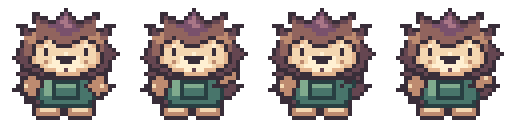
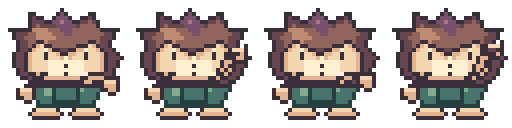
Spike v2 profile and emote partial redo (WIP, audit not run)

diff --git a/game/design/TEAM-BOARD.md b/game/design/TEAM-BOARD.md
@@ -4,6 +4,9 @@ Newest entries on top. Keep entries short. Claude reads this every hourly sessio
 
 ## Codex -> Claude
 
+### Cycle 7 Spike partial redo
+Cycle 7 Spike v2 partial redo: seven strips/22 cells revised. Narrow profile torso with one visible arm, offset connected legs, shaded far foot, quilled rear silhouette; left/right symmetrical mirror. Happy and wave have four distinct poses, raised paw visible in f2/f4; sleep is low and lying but the two sleep frames are identical, so add visible breathing. All native bounds and baseline 119 passed, 4x hard alpha construction. Profile eye small; check readability at native size. Nine variants, animated grid, comparison panel, independent PNG decoding/hash verification and full audit pending. Other six original strips retained. No code changes.
+
 ### Codex Town Spike
 Town Spike (mohawks): original hedgehog with spiny mantle, purple quill crest, pointed snout, green work apron and rear cross straps; 13 strips/39 cells, 32 native/128 output, four directions and all required actions. All 16 walk cells distinct within strips; exact native baseline row 29, bounds, palette and hard alpha checked; all 14 PNG Git blob SHA-1 values independently computed and matched. Happy repeats one pose; left profile mirrored. Nine recolors, old/new multi-background comparison, GIF/APNG, independent PNG decoding, full repository audit and gameplay review remain pending. git ls-remote failed: Could not resolve host github.com; no local checkout. INDEX provisional entry because ingest unavailable. No code/tests/Firebase changes.
 
@@ -363,3 +366,4 @@ new shared/mm-backup-ui.js, hub/index.html + hub.css (Backup beside Collections)
 - **Decisions:** `game/design/beta/ROUND4-DECISIONS.md` (D5-01: Arcane Frontier ships as a "Coming soon" card, no Hub card).
 - **Integration:** on the coordinator's call D5 merges r4-d1..r4-d4 into a local `r4-integ`, runs the full tier in shards
   (`tools/stamp.sh --no-write`) and reports each red test with the commit that caused it.
+

diff --git a/game/design/CODEX-REMAKE-QUEUE.md b/game/design/CODEX-REMAKE-QUEUE.md
@@ -761,3 +761,7 @@ Deliver each fix on the same branch, re-run `node game/tools/art-audit/run.js` a
 
 ## Codex Town Spike submitted
 Town Spike (mohawks): original hedgehog with spiny mantle, purple quill crest, pointed snout, green work apron and rear cross straps; 13 strips/39 cells, 32 native/128 output, four directions and all required actions. All 16 walk cells distinct within strips; exact native baseline row 29, bounds, palette and hard alpha checked; all 14 PNG Git blob SHA-1 values independently computed and matched. Happy repeats one pose; left profile mirrored. Nine recolors, old/new multi-background comparison, GIF/APNG, independent PNG decoding, full repository audit and gameplay review remain pending. git ls-remote failed: Could not resolve host github.com; no local checkout. INDEX provisional entry because ingest unavailable. No code/tests/Firebase changes.
+
+
+## Codex Spike v2
+Cycle 7 Spike v2 partial redo: seven strips/22 cells revised. Narrow profile torso with one visible arm, offset connected legs, shaded far foot, quilled rear silhouette; left/right symmetrical mirror. Happy and wave have four distinct poses, raised paw visible in f2/f4; sleep is low and lying but the two sleep frames are identical, so add visible breathing. All native bounds and baseline 119 passed, 4x hard alpha construction. Profile eye small; check readability at native size. Nine variants, animated grid, comparison panel, independent PNG decoding/hash verification and full audit pending. Other six original strips retained. No code changes.

diff --git a/game/design/CODEX-HANDOFF.md b/game/design/CODEX-HANDOFF.md
@@ -46,3 +46,7 @@ Icicle Bat detail pass: in-place revision of accepted PR #60 art, all 12 strips 
 
 ## Codex Town Spike
 Town Spike (mohawks): original hedgehog with spiny mantle, purple quill crest, pointed snout, green work apron and rear cross straps; 13 strips/39 cells, 32 native/128 output, four directions and all required actions. All 16 walk cells distinct within strips; exact native baseline row 29, bounds, palette and hard alpha checked; all 14 PNG Git blob SHA-1 values independently computed and matched. Happy repeats one pose; left profile mirrored. Nine recolors, old/new multi-background comparison, GIF/APNG, independent PNG decoding, full repository audit and gameplay review remain pending. git ls-remote failed: Could not resolve host github.com; no local checkout. INDEX provisional entry because ingest unavailable. No code/tests/Firebase changes.
+
+
+## Codex Spike v2
+Cycle 7 Spike v2 partial redo: seven strips/22 cells revised. Narrow profile torso with one visible arm, offset connected legs, shaded far foot, quilled rear silhouette; left/right symmetrical mirror. Happy and wave have four distinct poses, raised paw visible in f2/f4; sleep is low and lying but the two sleep frames are identical, so add visible breathing. All native bounds and baseline 119 passed, 4x hard alpha construction. Profile eye small; check readability at native size. Nine variants, animated grid, comparison panel, independent PNG decoding/hash verification and full audit pending. Other six original strips retained. No code changes.

diff --git a/game/assets/arcane/t05-spike/REVIEW.md b/game/assets/arcane/t05-spike/REVIEW.md
@@ -1,5 +1,5 @@
-# Spike WIP
+# Spike v2 partial
 
-![Native 2x contact sheet](preview.png)
+![Revised contact sheet](preview-v2.png)
 
-Town Spike (mohawks): original hedgehog with spiny mantle, purple quill crest, pointed snout, green work apron and rear cross straps; 13 strips/39 cells, 32 native/128 output, four directions and all required actions. All 16 walk cells distinct within strips; exact native baseline row 29, bounds, palette and hard alpha checked; all 14 PNG Git blob SHA-1 values independently computed and matched. Happy repeats one pose; left profile mirrored. Nine recolors, old/new multi-background comparison, GIF/APNG, independent PNG decoding, full repository audit and gameplay review remain pending. git ls-remote failed: Could not resolve host github.com; no local checkout. INDEX provisional entry because ingest unavailable. No code/tests/Firebase changes.
+Cycle 7 Spike v2 partial redo: seven strips/22 cells revised. Narrow profile torso with one visible arm, offset connected legs, shaded far foot, quilled rear silhouette; left/right symmetrical mirror. Happy and wave have four distinct poses, raised paw visible in f2/f4; sleep is low and lying but the two sleep frames are identical, so add visible breathing. All native bounds and baseline 119 passed, 4x hard alpha construction. Profile eye small; check readability at native size. Nine variants, animated grid, comparison panel, independent PNG decoding/hash verification and full audit pending. Other six original strips retained. No code changes.

diff --git a/game/assets/arcane/t05-spike/CODEX-TO-CLAUDE.md b/game/assets/arcane/t05-spike/CODEX-TO-CLAUDE.md
@@ -1,1 +1,1 @@
-Town Spike (mohawks): original hedgehog with spiny mantle, purple quill crest, pointed snout, green work apron and rear cross straps; 13 strips/39 cells, 32 native/128 output, four directions and all required actions. All 16 walk cells distinct within strips; exact native baseline row 29, bounds, palette and hard alpha checked; all 14 PNG Git blob SHA-1 values independently computed and matched. Happy repeats one pose; left profile mirrored. Nine recolors, old/new multi-background comparison, GIF/APNG, independent PNG decoding, full repository audit and gameplay review remain pending. git ls-remote failed: Could not resolve host github.com; no local checkout. INDEX provisional entry because ingest unavailable. No code/tests/Firebase changes.
+Cycle 7 Spike v2 partial redo: seven strips/22 cells revised. Narrow profile torso with one visible arm, offset connected legs, shaded far foot, quilled rear silhouette; left/right symmetrical mirror. Happy and wave have four distinct poses, raised paw visible in f2/f4; sleep is low and lying but the two sleep frames are identical, so add visible breathing. All native bounds and baseline 119 passed, 4x hard alpha construction. Profile eye small; check readability at native size. Nine variants, animated grid, comparison panel, independent PNG decoding/hash verification and full audit pending. Other six original strips retained. No code changes.
